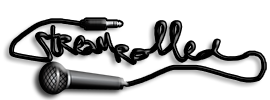
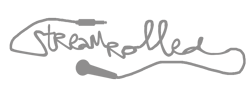
adjusting the header

diff --git a/app/assets/stylesheets/application.css b/app/assets/stylesheets/application.css
@@ -915,8 +915,8 @@ margin-left: 10px; /*Set left margin to LeftColumnWidth*/
 /* ################################################################ */
 
 #topsection{
-  background: #EAEAEA;
-  height: 7em; /*Height of top section*/
+  background: #2a2a2a;
+  border-bottom: solid 1px #333;
 }
 
 #topsection h1{
